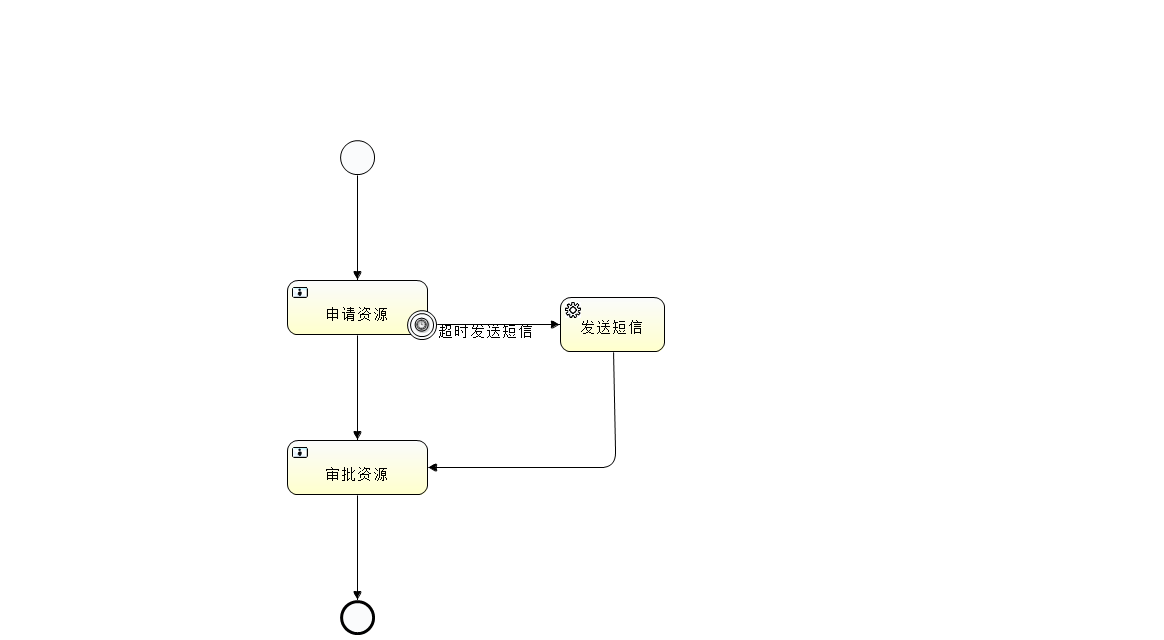
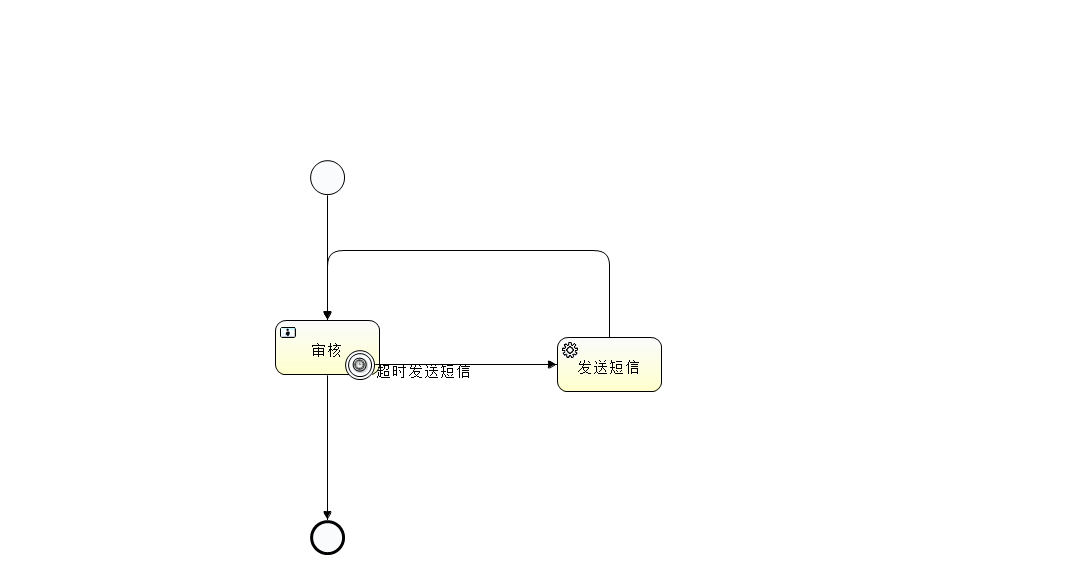
feat: 添加边界任务测试

diff --git a/Activiti/src/test/java/org/tang/Activiti/test/TimeTaskTest.java b/Activiti/src/test/java/org/tang/Activiti/test/TimeTaskTest.java
@@ -1,0 +1,59 @@
+package org.tang.Activiti.test;
+
+import java.time.LocalDateTime;
+import java.time.format.DateTimeFormatter;
+import java.util.HashMap;
+import java.util.Map;
+
+import org.activiti.engine.ProcessEngine;
+import org.activiti.engine.repository.Deployment;
+import org.activiti.engine.runtime.ProcessInstance;
+import org.junit.Test;
+import org.junit.runner.RunWith;
+import org.springframework.beans.factory.annotation.Autowired;
+import org.springframework.boot.test.context.SpringBootTest;
+import org.springframework.test.context.junit4.SpringRunner;
+/**
+ * 
+ * <p>2019年12月20日</p>
+ * @author tangxing
+ * <p> 测试边界任务 </p>
+ */
+@SpringBootTest
+@RunWith(SpringRunner.class)
+public class TimeTaskTest {
+
+	@Autowired
+	ProcessEngine processEngine;
+	
+	// 部署流程信息
+	@Test
+	public void testDeploy() {
+		Deployment deploy = processEngine.getRepositoryService().createDeployment()
+					 .name("边界任务")
+					 .addClasspathResource("processes/TimeJob.bpmn")
+					 .addClasspathResource("processes/TimeJob.png")
+					 .deploy();
+		System.out.println(deploy.toString());
+		
+	}
+	
+	// 启动流程实例
+	@Test
+	public void testStartProcessInstance() {
+		String processDefinitionKey = "TimeJob";
+		Map<String, Object> variables = new HashMap<String, Object>();
+		// 设置初始变量
+		variables.put("timeout", LocalDateTime.now().plusSeconds(15l).format(DateTimeFormatter.ofPattern("yyyy-MM-dd'T'HH:mm:ss")));
+		ProcessInstance processInstance = processEngine.getRuntimeService()
+					 .startProcessInstanceByKey(processDefinitionKey, variables);
+		System.out.println(processInstance.toString());
+		try {
+			Thread.sleep(2*60*1000);
+		} catch (InterruptedException e) {
+			e.printStackTrace();
+		}
+	}
+	
+	
+}

diff --git a/Activiti/src/test/java/org/tang/Activiti/job/SenderMessage.java b/Activiti/src/test/java/org/tang/Activiti/job/SenderMessage.java
@@ -1,0 +1,33 @@
+package org.tang.Activiti.job;
+
+import java.time.LocalDateTime;
+import java.time.format.DateTimeFormatter;
+
+import org.activiti.engine.delegate.DelegateExecution;
+import org.activiti.engine.delegate.JavaDelegate;
+import org.springframework.stereotype.Component;
+/**
+ * 
+ * <p>2019年12月20日</p>
+ * @author tangxing
+ * <p> 发送短消息任务 </p>
+ */
+@Component("senderMessage")
+public class SenderMessage implements JavaDelegate{
+
+	@Override
+	public void execute(DelegateExecution execution) {
+		Object object = execution.getVariable("count");
+		String timeout = (String) execution.getVariable("timeout");
+		DateTimeFormatter formatter = DateTimeFormatter.ofPattern("yyyy-MM-dd'T'HH:mm:ss");
+		if(object ==null) {
+			execution.setVariable("count", 1);
+			execution.setVariable("timeout", LocalDateTime.parse(timeout).plusSeconds(20l).format(formatter));
+		}else {
+			// execution.setVariable("count", 1);
+			execution.setVariable("timeout", LocalDateTime.parse(timeout).plusYears(1000).format(formatter));
+		}
+		System.out.println(" 发送短信--------------------> " + LocalDateTime.now());
+	}
+
+}
